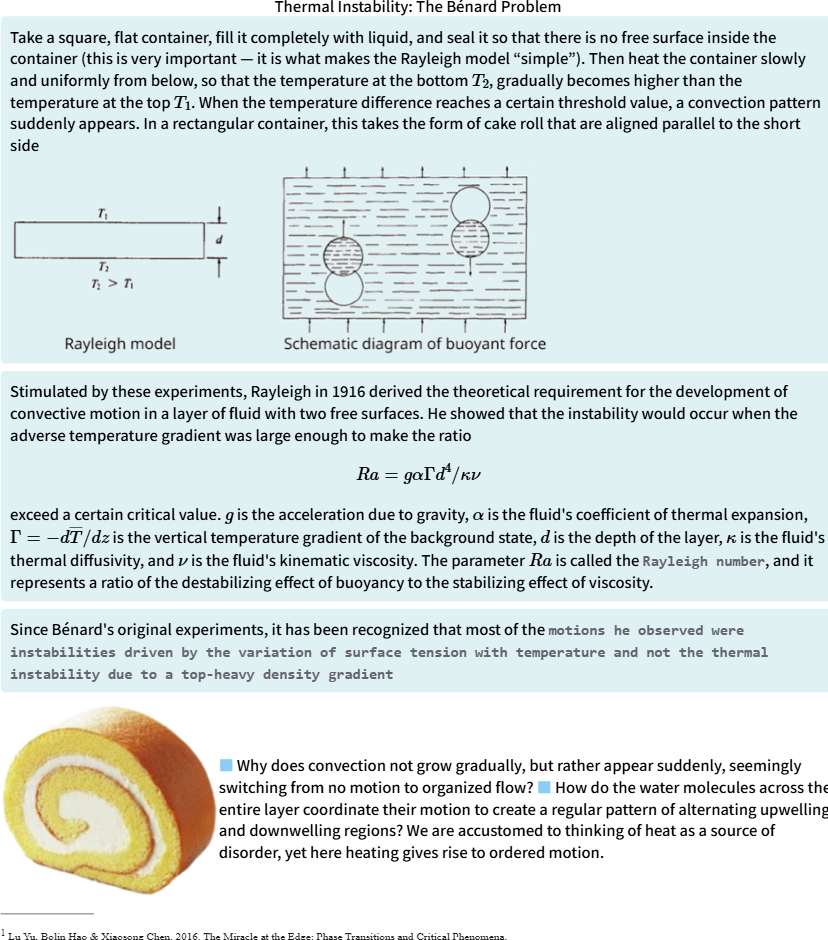
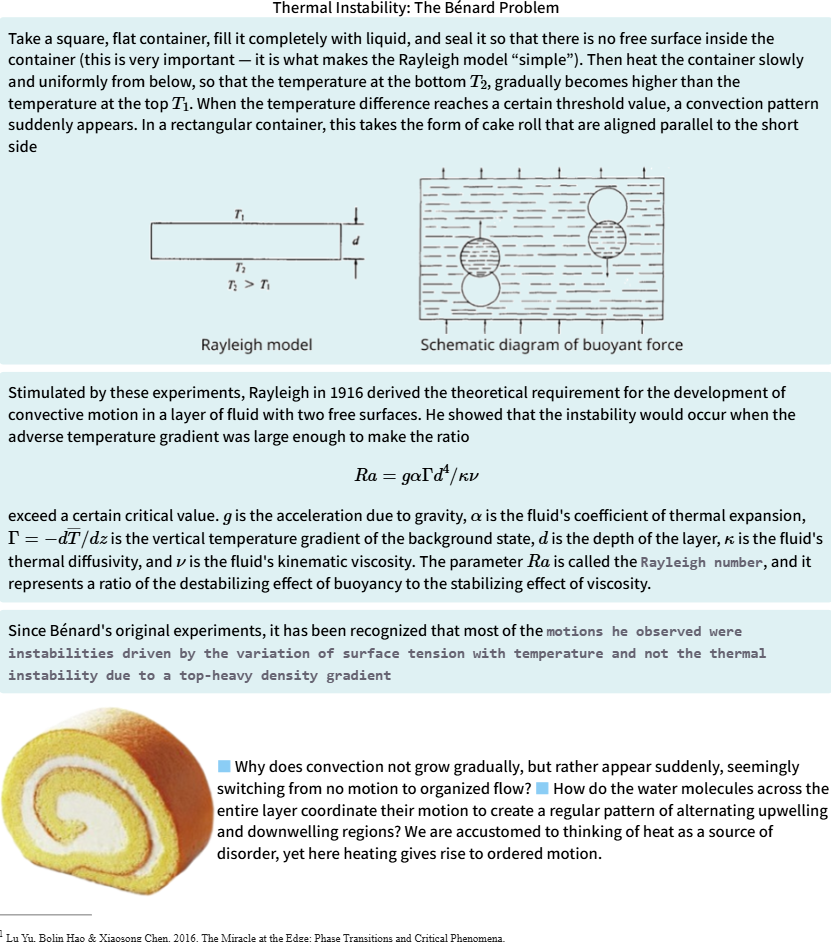
Update

diff --git a/Lecture7ASlide38.html b/Lecture7ASlide38.html
@@ -153,17 +153,33 @@ window.addEventListener('resize', scaleContainer);
 </head>
 <body>
     <div class="container">
-        <div class="title">Thermal Instability: The Bénard Problem</div>
+        <div class="title">Rayleigh-Taylor Instability</div>
 
         <div class="slide">
-
+<p>
+    Rayleigh-Taylor instability is an interfacial hydrodynamic instability that develops when two fluids of different densities, 
+    separated by an interface and subjected to a relative acceleration. 
+It occurs widely in unstably stratified natural, industrial, and astrophysical systems, including coastal upwelling near the ocean surface, atmospheric and cloud dynamics, plasma physics phenomena, the ignition of supernovae, air bubble formation in divers' bloodstreams, and premixed combustion processes.
+</p>
 
 <div class="image-container">
-  <img src="Figures/Lecture7A_MarkusRayleighBenard.png" 
-       alt="MarkusRayleighBenard" 
-       style="max-width: 100%; height: auto; display: block; margin: 0 auto;">
+  <img src="Figures/Lecture7A_RayleighTaylorMixingZone.png" 
+       alt="RayleighTaylorMixingZone" 
+       style="max-width: 77%; height: auto; display: block; margin: 0 auto;">
 </div>
 
+<p>
+Many geological phenomena can be explained by this principle, such as diapirism.
+
+Magma can form diapirs, salt can form diapirs, deep crustal rock mixtures can form diapirs, and even ultrahigh-pressure solid rocks from depths of about 100 km can rise to the surface through diapirism.
+
+All of these processes are driven by buoyancy forces resulting from density differences.
+</p>
+<div class="image-container">
+  <img src="Figures/Lecture7A_GeologyRayleighTaylor.png" 
+       alt="GeologyRayleighTaylor" 
+       style="max-width: 100%; height: auto; display: block; margin: 0 auto;">
+</div>
 
 
 
@@ -171,14 +187,23 @@ window.addEventListener('resize', scaleContainer);
         <div class="footnote-container">
             <hr class="footnote-line">
             <p class="footnote">
-                <sup>1</sup> Made by Markus, at Bornö Marine Research Station.
+                <sup>1</sup> Schwarzkopf, J. & Livescu, Daniel & Baltzer, Jon & Gore, R. & Ristorcelli, J.. (2015). A Two-length Scale Turbulence Model for Single-phase Multi-fluid Mixing. Flow, Turbulence and Combustion.
+            </p>
+            <p class="footnote">
+                <sup>2</sup> Rahman, S. M., & San, O. (2019). A Relaxation Filtering Approach for Two-Dimensional Rayleigh-Taylor Instability-Induced Flows. Fluids, 4(2), 78.
+            </p>
+            <p class="footnote">
+                <sup>3</sup> H. Fossen, Structural Geology, 2nd ed. Cambridge: Cambridge University Press, 2016.
+            </p>
+            <p class="footnote">
+                <sup>4</sup> Marschall, H., Schumacher, J. Arc magmas sourced from mélange diapirs in subduction zones. Nature Geosci 5, 862-867 (2012).
             </p>
         </div>
 
         <!-- Left Arrow to go back to Slide  -->
-        <a href="Lecture7ASlide36.html" class="nav-button left">&#9664;</a>
+        <a href="Lecture7ASlide37.html" class="nav-button left">&#9664;</a>
         <!-- Right Arrow to go to Slide  -->
-        <a href="Lecture7ASlide38.html" class="nav-button right">&#9654;</a>
+        <a href="Lecture7ASlide39.html" class="nav-button right">&#9654;</a>
     </div>
 </body>
 </html>

diff --git a/Lecture7ASlide36.html b/Lecture7ASlide36.html
@@ -162,7 +162,7 @@ and seal it so that there is no free surface inside the container (this is very 
 Then heat the container slowly and uniformly from below, so that the temperature at the bottom $T_2$, gradually becomes higher than the temperature at the top $T_1$. 
 When the temperature difference reaches a certain threshold value, a convection pattern suddenly appears. In a rectangular container, this takes the form of cake roll that are aligned parallel to the short side
 <div class="image-container">
-<img src="Figures/Lecture7A_RayleighBuoyant.png" alt="RayleighBuoyant" style="max-width: 66%; height: 100%; border: none;">
+<img src="Figures/Lecture7A_RayleighBuoyant.png" alt="RayleighBuoyant" style="max-width: 66%; height: auto; display: block; margin: 0 auto;">
 </div>
 </div>
 
